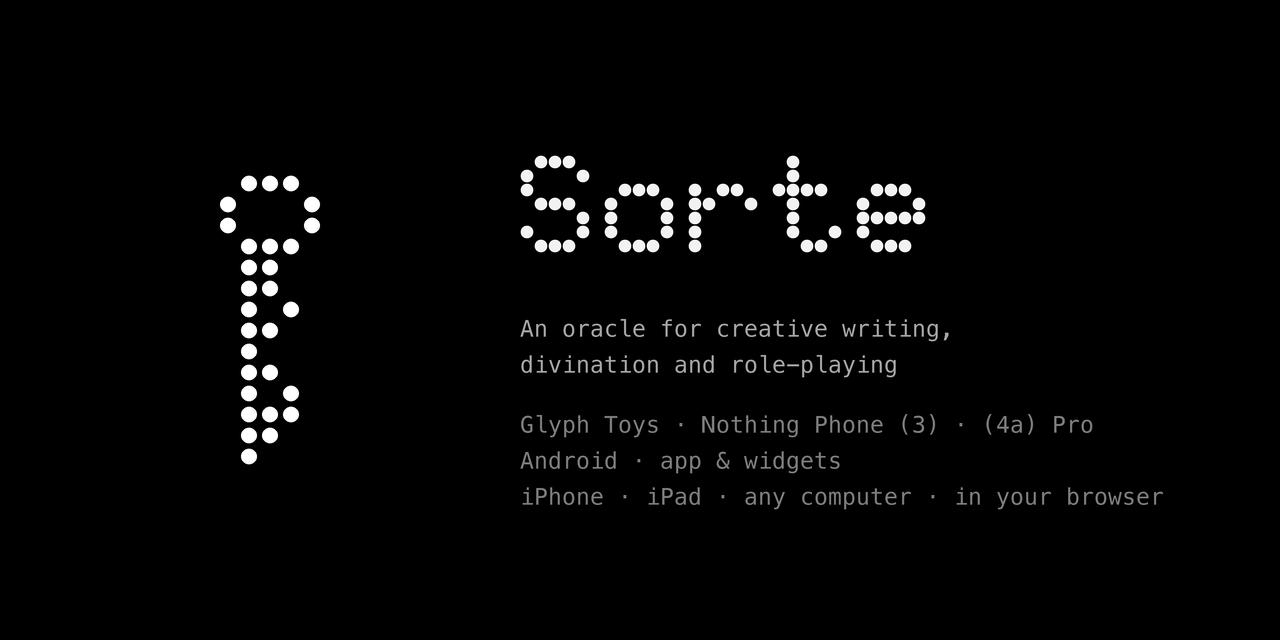
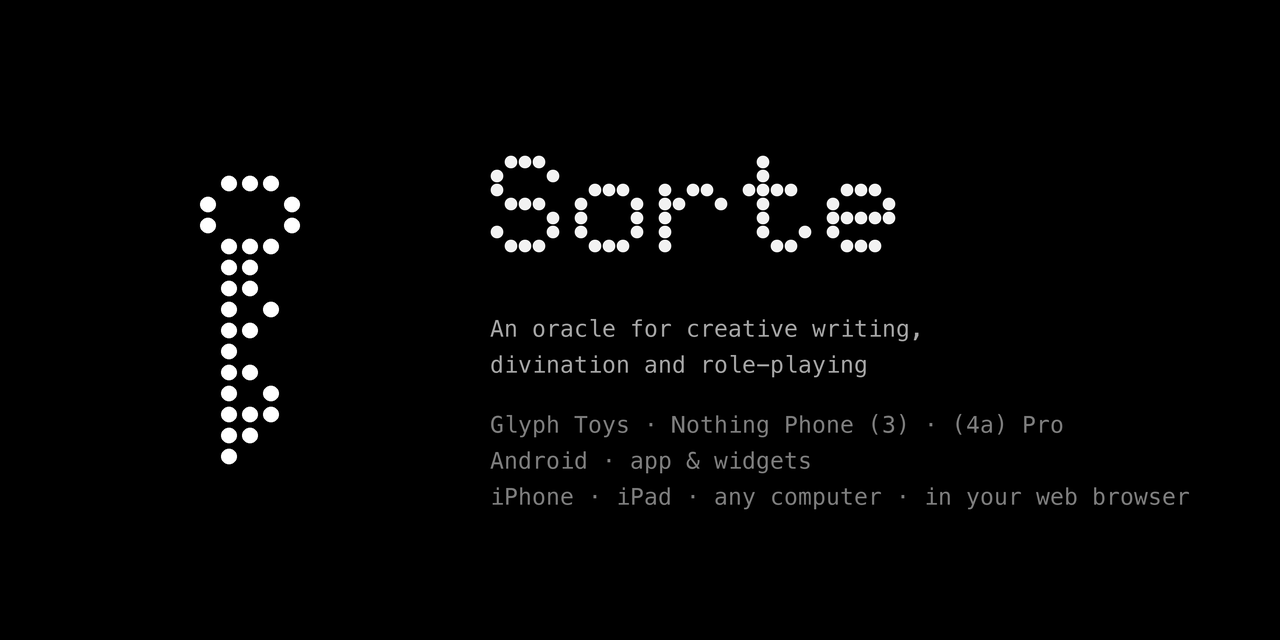
Testi: «on iPhone, iPad or any computer», «in your web browser»; «su iPhone, iPad o qualsiasi computer»

diff --git a/docs/index.html b/docs/index.html
@@ -4,7 +4,7 @@
 <meta charset="utf-8">
 <meta name="viewport" content="width=device-width,initial-scale=1">
 <title>Sorte — an oracle for creative writing, divination and role-playing</title>
-<meta name="description" content="A closed oracle made of steam, an open oracle made of fire, and dice. Glyph Toys for Nothing Phone (3), an app for Android, and a web version for iPhone, iPad and any computer. By Mattia Giordano.">
+<meta name="description" content="A closed oracle made of steam, an open oracle made of fire, and dice. Glyph Toys for Nothing Phone (3), an app for Android, and a web version for iPhone, iPad or any computer. By Mattia Giordano.">
 <meta property="og:title" content="Sorte">
 <meta property="og:description" content="An oracle for creative writing, divination and role-playing.">
 <meta property="og:image" content="https://mattiagiordano27.github.io/sorte/media/og.png">
@@ -22,7 +22,7 @@
 <meta name="author" content="Mattia Giordano">
 <meta name="keywords" content="Sorte, oracle, Nothing Phone 3, Glyph Toys, Glyph Matrix, divination, creative writing, solo role-playing, TTRPG, dice, web app, iPhone, Mattia Giordano, oracolo">
 <link rel="icon" href="media/icon.png">
-<script type="application/ld+json">{"@context": "https://schema.org", "@type": "SoftwareApplication", "name": "Sorte", "url": "https://mattiagiordano27.github.io/sorte/", "description": "An oracle for creative writing, divination and role-playing. Glyph Toys for Nothing Phone (3), an app for Android, and a web version for iPhone, iPad and any computer.", "applicationCategory": "GameApplication", "operatingSystem": "Android 10+, web browser", "inLanguage": ["en", "it"], "isAccessibleForFree": true, "offers": {"@type": "Offer", "price": "0", "priceCurrency": "EUR"}, "author": {"@type": "Person", "name": "Mattia Giordano"}, "image": "https://mattiagiordano27.github.io/sorte/media/og.png", "softwareVersion": "0.27.1", "downloadUrl": "https://github.com/mattiagiordano27/sorte/releases/latest", "installUrl": "https://mattiagiordano27.github.io/sorte/app/", "license": "https://opensource.org/licenses/MIT", "sameAs": ["https://github.com/mattiagiordano27/sorte", "https://mattiagiordano27.github.io/sorte/app/"]}</script>
+<script type="application/ld+json">{"@context": "https://schema.org", "@type": "SoftwareApplication", "name": "Sorte", "url": "https://mattiagiordano27.github.io/sorte/", "description": "An oracle for creative writing, divination and role-playing. Glyph Toys for Nothing Phone (3), an app for Android, and a web version for iPhone, iPad or any computer.", "applicationCategory": "GameApplication", "operatingSystem": "Android 10+, web browser", "inLanguage": ["en", "it"], "isAccessibleForFree": true, "offers": {"@type": "Offer", "price": "0", "priceCurrency": "EUR"}, "author": {"@type": "Person", "name": "Mattia Giordano"}, "image": "https://mattiagiordano27.github.io/sorte/media/og.png", "softwareVersion": "0.27.1", "downloadUrl": "https://github.com/mattiagiordano27/sorte/releases/latest", "installUrl": "https://mattiagiordano27.github.io/sorte/app/", "license": "https://opensource.org/licenses/MIT", "sameAs": ["https://github.com/mattiagiordano27/sorte", "https://mattiagiordano27.github.io/sorte/app/"]}</script>
 <link rel="stylesheet" href="fonts/fonts.css">
 <style>
   :root{
@@ -224,15 +224,15 @@
       <div>
         <div class="mono" data-en="iPhone · iPad · computer" data-it="iPhone · iPad · computer">iPhone · iPad · computer</div>
         <h2 class="dot" data-en="In your browser" data-it="Nel browser">In your browser</h2>
-        <p data-en="On iPhone, iPad and any computer, Sorte opens in your browser, with the same three tools, animations and sounds. Tap or click the circle, or press the space bar; on iPhone you can also shake."
-           data-it="Su iPhone, iPad e qualsiasi computer Sorte si apre nel browser, con gli stessi tre strumenti, le stesse animazioni e gli stessi suoni. Tocca o clicca il tondo, oppure premi la barra spaziatrice; su iPhone puoi anche scuotere.">
-          On iPhone, iPad and any computer, Sorte opens in your browser, with the same three tools, animations and sounds. Tap or click the circle, or press the space bar; on iPhone you can also shake.</p>
+        <p data-en="On iPhone, iPad or any computer, Sorte opens in your web browser, with the same three tools, animations and sounds. Tap or click the circle, or press the space bar; on iPhone you can also shake."
+           data-it="Su iPhone, iPad o qualsiasi computer Sorte si apre nel browser, con gli stessi tre strumenti, le stesse animazioni e gli stessi suoni. Tocca o clicca il tondo, oppure premi la barra spaziatrice; su iPhone puoi anche scuotere.">
+          On iPhone, iPad or any computer, Sorte opens in your web browser, with the same three tools, animations and sounds. Tap or click the circle, or press the space bar; on iPhone you can also shake.</p>
         <p data-en="Added to your home screen, it opens full screen like an app and works offline too."
            data-it="Aggiunta alla schermata Home, si apre a tutto schermo come un'app e funziona anche offline.">
           Added to your home screen, it opens full screen like an app and works offline too.</p>
         <p style="margin-top:22px"><a class="pill solid" href="https://mattiagiordano27.github.io/sorte/app/" data-en="Open Sorte" data-it="Apri Sorte">Open Sorte</a></p>
       </div>
-      <img class="shot" src="media/web.png" alt="Sorte in your browser on a computer" loading="lazy">
+      <img class="shot" src="media/web.png" alt="Sorte in a web browser on a computer" loading="lazy">
     </div>
   </section>
   <section class="news" id="features">
@@ -258,7 +258,7 @@
         <h3>Everywhere</h3>
         <ul>
           <li><span>📱</span>A regular app on any Android 10+, in English and Italian.</li>
-          <li><span>🌐</span>A web version for iPhone, iPad and any computer. Add it to your home screen and it works offline.</li>
+          <li><span>🌐</span>A web version for iPhone, iPad or any computer. Add it to your home screen and it works offline.</li>
         </ul>
         <h3>Privacy</h3>
         <ul><li><span>🔒</span>No data collected or sold, no ads, no tracking. Works offline.</li></ul>
@@ -283,7 +283,7 @@
         <h3>Ovunque</h3>
         <ul>
           <li><span>📱</span>App per ogni Android 10+, in italiano e in inglese.</li>
-          <li><span>🌐</span>Una versione web per iPhone, iPad e qualsiasi computer. Aggiungila alla schermata Home e funziona anche offline.</li>
+          <li><span>🌐</span>Una versione web per iPhone, iPad o qualsiasi computer. Aggiungila alla schermata Home e funziona anche offline.</li>
         </ul>
         <h3>Privacy</h3>
         <ul><li><span>🔒</span>Nessun dato raccolto né venduto, niente pubblicità né tracciamento. Funziona offline.</li></ul>
@@ -302,7 +302,7 @@
     <p style="margin-top:22px"><a class="pill solid" href="https://github.com/mattiagiordano27/sorte/releases/latest" data-en="Download free" data-it="Scarica gratis">Download free</a></p>
     <h3 class="group" data-en="iPhone, iPad and computer" data-it="iPhone, iPad e computer">iPhone, iPad and computer</h3>
     <div class="steps two">
-      <div data-en="Open mattiagiordano27.github.io/sorte/app in your browser." data-it="Apri mattiagiordano27.github.io/sorte/app nel browser.">Open mattiagiordano27.github.io/sorte/app in your browser.</div>
+      <div data-en="Open mattiagiordano27.github.io/sorte/app in your web browser." data-it="Apri mattiagiordano27.github.io/sorte/app nel browser.">Open mattiagiordano27.github.io/sorte/app in your web browser.</div>
       <div data-en="Add it to your home screen: on iPhone and iPad via Share › Add to Home Screen; on a computer via the install icon in Chrome or Edge, or on a Mac via Safari › File › Add to Dock. From then on it opens like an app, even offline." data-it="Aggiungila alla schermata Home: su iPhone e iPad da Condividi › Aggiungi alla schermata Home; sul computer dall'icona di installazione di Chrome o Edge, o su Mac da Safari › File › Aggiungi al Dock. Da lì si apre come un'app, anche offline.">Add it to your home screen: on iPhone and iPad via Share › Add to Home Screen; on a computer via the install icon in Chrome or Edge, or on a Mac via Safari › File › Add to Dock. From then on it opens like an app, even offline.</div>
     </div>
     <p style="margin-top:22px"><a class="pill solid" href="https://mattiagiordano27.github.io/sorte/app/" data-en="Open in browser" data-it="Apri nel browser">Open in browser</a></p>

diff --git a/docs/app/index.html b/docs/app/index.html
@@ -4,13 +4,13 @@
 <meta charset="utf-8">
 <meta name="viewport" content="width=device-width,initial-scale=1,viewport-fit=cover">
 <title>Sorte — oracle in your browser</title>
-<meta name="description" content="Sorte in your browser: a closed oracle made of steam, an open oracle made of fire, and dice. For iPhone, iPad and any computer. By Mattia Giordano.">
+<meta name="description" content="Sorte in your browser: a closed oracle made of steam, an open oracle made of fire, and dice. For iPhone, iPad or any computer. By Mattia Giordano.">
 <meta name="author" content="Mattia Giordano">
 <link rel="canonical" href="https://mattiagiordano27.github.io/sorte/app/">
 <meta property="og:site_name" content="Sorte">
 <meta property="og:type" content="website">
 <meta property="og:title" content="Sorte — oracle in your browser">
-<meta property="og:description" content="An oracle for creative writing, divination and role-playing. Steam, fire and dice, on iPhone, iPad and any computer. Free, works offline.">
+<meta property="og:description" content="An oracle for creative writing, divination and role-playing. Steam, fire and dice, on iPhone, iPad or any computer. Free, works offline.">
 <meta property="og:image" content="https://mattiagiordano27.github.io/sorte/media/og_app.png">
 <meta property="og:image:width" content="1200">
 <meta property="og:image:height" content="630">
@@ -20,7 +20,7 @@
 <meta property="og:locale:alternate" content="it_IT">
 <meta name="twitter:card" content="summary_large_image">
 <meta name="twitter:title" content="Sorte — oracle in your browser">
-<meta name="twitter:description" content="Steam, fire and dice, on iPhone, iPad and any computer. Free, works offline.">
+<meta name="twitter:description" content="Steam, fire and dice, on iPhone, iPad or any computer. Free, works offline.">
 <meta name="twitter:image" content="https://mattiagiordano27.github.io/sorte/media/og_app.png">
 <meta name="theme-color" content="#000000">
 <meta name="apple-mobile-web-app-capable" content="yes">

diff --git a/app/src/main/java/mattiagiordano/sorte/Manual.kt b/app/src/main/java/mattiagiordano/sorte/Manual.kt
@@ -79,7 +79,7 @@ object Manual {
         Block.Heading("Nell'app"),
         Block.Para("Scegli in basso l'oracolo chiuso, l'oracolo aperto o i dadi, poi tocca la matrice o scuoti il telefono. " +
             "Per i dadi, scegli il tipo coi pulsanti sotto la matrice."),
-        Block.Para("Sorte c'è anche nel browser, per iPhone, iPad e qualsiasi computer: mattiagiordano27.github.io/sorte/app."),
+        Block.Para("Sorte funziona anche nel browser, su iPhone, iPad o qualsiasi computer: mattiagiordano27.github.io/sorte/app."),
         Block.Heading("Sul retro · Nothing Phone (3)"),
         Block.Para("I tre strumenti sono Glyph Toys. Pressione breve sul Glyph Button per sceglierli, pressione lunga " +
             "per usarli. Puoi anche scuotere il telefono a faccia in giù."),
@@ -161,7 +161,7 @@ object Manual {
         Block.Heading("In the app"),
         Block.Para("Pick the closed oracle, the open oracle or the dice at the bottom, then tap the matrix or give the " +
             "phone a shake. For the dice, choose the type with the buttons under the matrix."),
-        Block.Para("Sorte is also available in your browser, for iPhone, iPad and any computer: mattiagiordano27.github.io/sorte/app."),
+        Block.Para("Sorte also works in your web browser, on iPhone, iPad or any computer: mattiagiordano27.github.io/sorte/app."),
         Block.Heading("On the back · Nothing Phone (3)"),
         Block.Para("The three tools are Glyph Toys. A short press on the Glyph Button cycles through them, a long press " +
             "uses them. You can also shake the phone face down."),

diff --git a/docs/app/sw.js b/docs/app/sw.js
@@ -1,5 +1,5 @@
 // Offline: con la rete prende sempre la versione nuova (e la salva); senza rete usa la copia salvata.
-const VERSIONE = 'sorte-web-0.27-12';
+const VERSIONE = 'sorte-web-0.27-13';
 const FILE = ["./", "index.html", "engine.js", "testi.js", "app.js", "manifest.webmanifest", "font/doto.ttf", "icon-180.png", "icon-192.png", "icon-512.png", "icone/bicchiere.png", "icone/chiave.png", "icone/finestra.png", "icone/lucchetto.png", "icone/nuvole.png", "icone/palma.png", "icone/porta.png", "icone/presa_elettrica.png", "icone/recinto.png", "icone/scatola.png", "icone/sedia.png", "icone/stella.png", "suoni/aperto_arrivo.wav", "suoni/aperto_pensa.wav", "suoni/chiuso_arrivo.wav", "suoni/chiuso_ma.wav", "suoni/chiuso_pensa.wav", "suoni/dadi_clic.wav", "suoni/dadi_feltro.wav", "suoni/dadi_posa.wav"];
 self.addEventListener('install', e => e.waitUntil(caches.open(VERSIONE)
   .then(c => c.addAll(FILE.map(u => new Request(u, { cache: 'reload' })))).then(() => self.skipWaiting())));

diff --git a/docs/app/testi.js b/docs/app/testi.js
@@ -38,7 +38,7 @@ const TESTI = {
    ],
    [
     "Para",
-    "Sorte c'è anche nel browser, per iPhone, iPad e qualsiasi computer: mattiagiordano27.github.io/sorte/app."
+    "Sorte funziona anche nel browser, su iPhone, iPad o qualsiasi computer: mattiagiordano27.github.io/sorte/app."
    ],
    [
     "Heading",
@@ -257,7 +257,7 @@ const TESTI = {
    ],
    [
     "Para",
-    "Sorte is also available in your browser, for iPhone, iPad and any computer: mattiagiordano27.github.io/sorte/app."
+    "Sorte also works in your web browser, on iPhone, iPad or any computer: mattiagiordano27.github.io/sorte/app."
    ],
    [
     "Heading",

diff --git a/tools/carosello.py b/tools/carosello.py
@@ -70,8 +70,8 @@ TEXT = {
         ("Glyph Toy · 02", "Open Oracle", "A little flame catches the paper. What the fire leaves behind is a symbol to read.", "open"),
         ("Glyph Toy · 03", "Dice", "d4 to d100 as silhouettes. Shake it face down; while charging, lift one edge and set it back down.", "dice"),
         ("Symbols", "The deck", "Twelve cards from Mattia Giordano's personal oracle deck, drawn in dots.", "symbols"),
-        ("Everywhere", "Widgets", "Three round widgets on Android, Glyph Toys on Nothing Phone (3), and a web version for iPhone, iPad and any computer.", "widgets"),
-        ("Free", "Open source", "Free on GitHub and in your browser. Concept, development, drawings and sounds by Mattia Giordano.", "free"),
+        ("Everywhere", "Widgets", "Three round widgets on Android, Glyph Toys on Nothing Phone (3), and a web version for iPhone, iPad or any computer.", "widgets"),
+        ("Free", "Open source", "Free on GitHub and in your web browser. Concept, development, drawings and sounds by Mattia Giordano.", "free"),
     ],
     "it": [
         ("Sorte 0.27", "Sorte", "Un oracolo per scrittura creativa, divinazione e gioco di ruolo.", "cover"),
@@ -79,7 +79,7 @@ TEXT = {
         ("Glyph Toy · 02", "Oracolo aperto", "Una fiammella brucia la carta. Quello che il fuoco lascia è un simbolo da leggere.", "open"),
         ("Glyph Toy · 03", "Dadi", "Dal d4 al d100, come sagome. Scuoti a faccia in giù; in carica, sollevane un lato e riappoggialo.", "dice"),
         ("Simboli", "Il mazzo", "Dodici carte del mazzo oracolare personale di Mattia Giordano, disegnate a puntini.", "symbols"),
-        ("Ovunque", "Widget", "Tre widget tondi su Android, Glyph Toys su Nothing Phone (3) e una versione web per iPhone, iPad e qualsiasi computer.", "widgets"),
+        ("Ovunque", "Widget", "Tre widget tondi su Android, Glyph Toys su Nothing Phone (3) e una versione web per iPhone, iPad o qualsiasi computer.", "widgets"),
         ("Gratis", "Open source", "Gratis su GitHub e nel browser. Ideazione, sviluppo, disegni e suoni di Mattia Giordano.", "free"),
     ],
 }

diff --git a/README.md b/README.md
@@ -56,7 +56,7 @@
 
 ### Everywhere
 - 📱 A regular app on any Android 10+, in English and Italian.
-- 🌐 A web version for iPhone, iPad and any computer. Add it to your home screen and it works offline.
+- 🌐 A web version for iPhone, iPad or any computer. Add it to your home screen and it works offline.
 
 ### Privacy
 - 🔒 No data collected or sold, no ads, no tracking. Works offline.
@@ -84,7 +84,7 @@
 
 #### Ovunque
 - 📱 App per ogni Android 10+, in italiano e in inglese.
-- 🌐 Una versione web per iPhone, iPad e qualsiasi computer. Aggiungila alla schermata Home e funziona anche offline.
+- 🌐 Una versione web per iPhone, iPad o qualsiasi computer. Aggiungila alla schermata Home e funziona anche offline.
 
 #### Privacy
 - 🔒 Nessun dato raccolto né venduto, niente pubblicità né tracciamento. Funziona offline.
